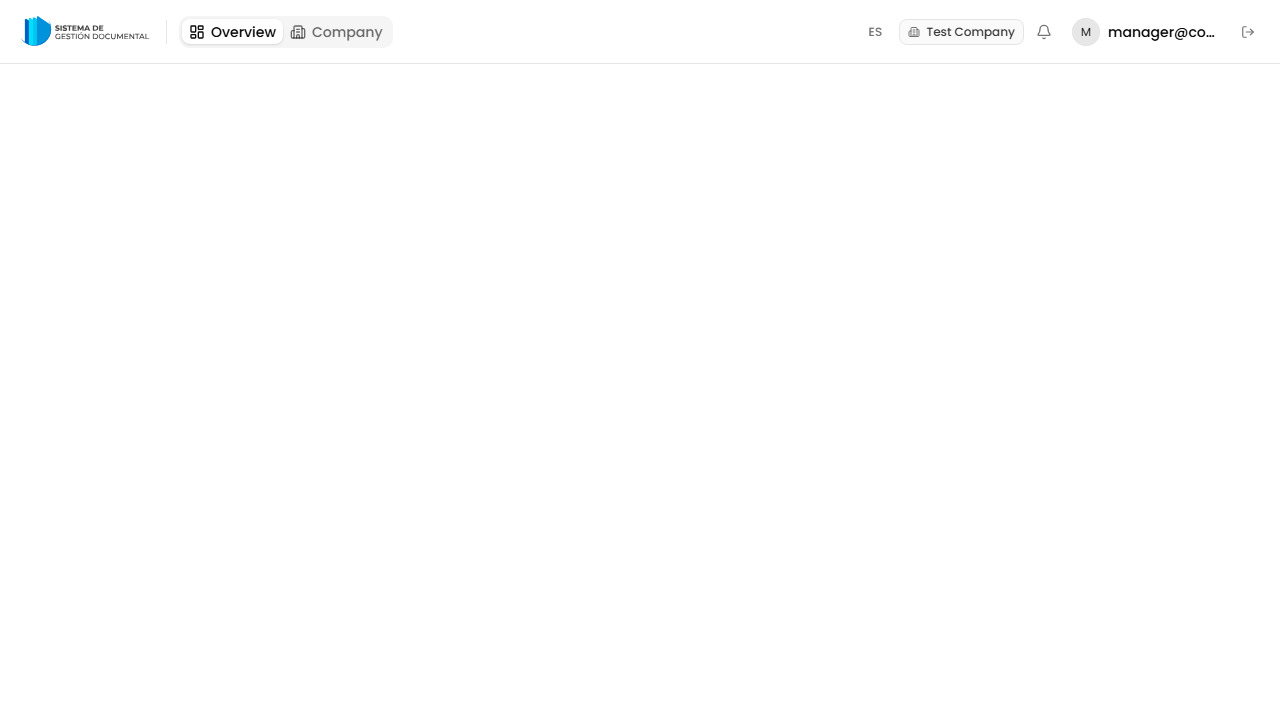
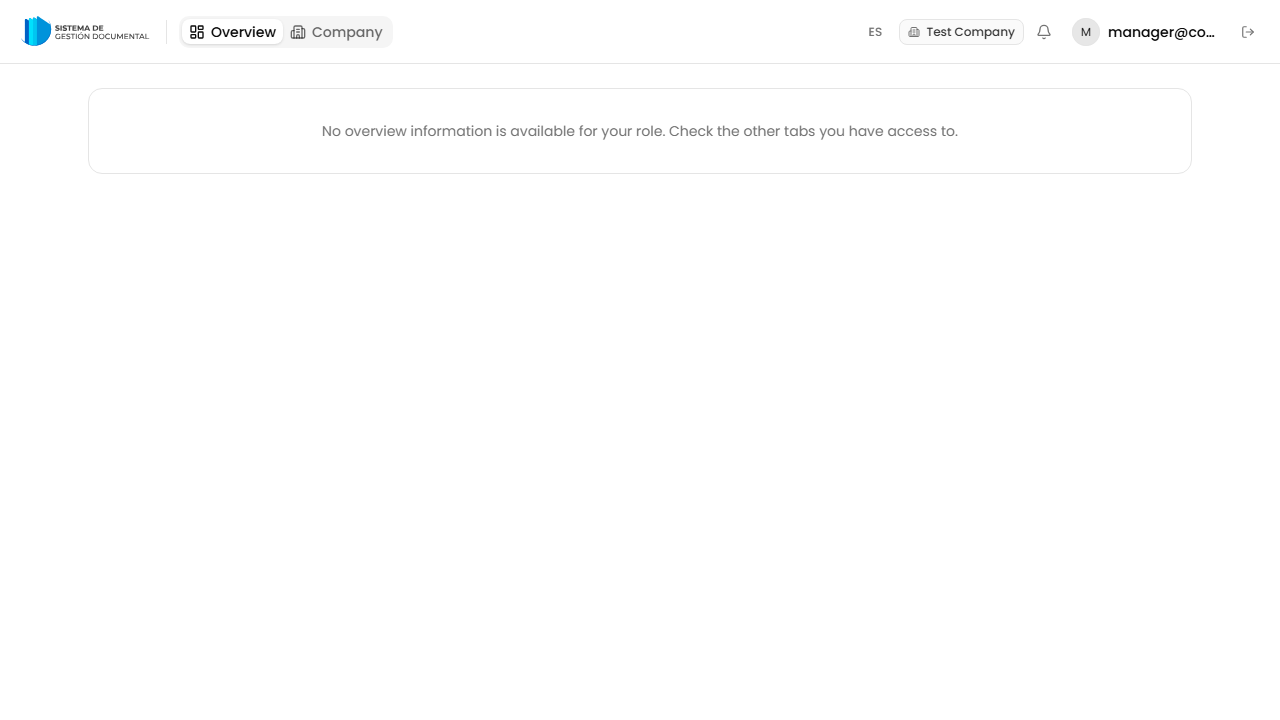
:wrench: MGESTDOC-59: ajuste filtros flujo de trabajo

Changed region(s): [[0.5312, 0.1528, 0.6875, 0.1833], [0.25, 0.1528, 0.375, 0.1833], [0.4062, 0.1528, 0.4688, 0.2139]]

diff --git a/tests/e2e/helpers/auth.ts b/tests/e2e/helpers/auth.ts
@@ -116,6 +116,12 @@ export async function mockAuthRefresh(page: Page, orgId = 'org-001') {
   await page.route(`${API}/org/${orgId}/departamentos`, (route) => route.fulfill({ json: [] }));
   await page.route(`${API}/permissions`, (route) => route.fulfill({ json: [] }));
   await page.route(`${API}/roles`, (route) => route.fulfill({ json: [] }));
+
+  // Typologies list fires unconditionally once companyId is known (feeds the
+  // create-workflow dialog and the "Typology" filter on the workflows tabs).
+  // mockApiFallback's paginated shape isn't a plain array like the real
+  // endpoint, so activeTypologies' .filter() would throw and crash the page.
+  await page.route(`${API}/documents/${orgId}/typologies`, (route) => route.fulfill({ json: [] }));
 }
 
 /** Mock token refresh for a super-admin session (no company context needed). */
